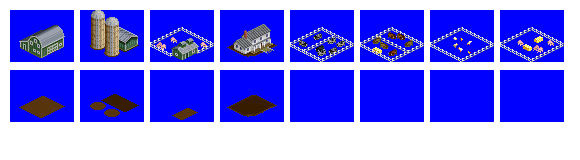
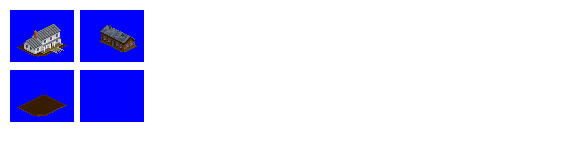
Change: add hunting camp to Arctic Basic; start refactoring paper mill to new sprites and spritelayout

diff --git a/src/industries/paper_mill.py b/src/industries/paper_mill.py
@@ -11,19 +11,25 @@ industry = IndustrySecondary(id='paper_mill',
                     processed_cargos_and_output_ratios=[('CLAY', 2), ('WOOD', 4), ('RFPR', 2)],
                     combined_cargos_boost_prod=True,
                     prod_cargo_types=['GOOD', 'MNSP'],
+                    layouts='AUTO',
                     prob_in_game='3',
                     prob_random='5',
+                    prod_multiplier='[0, 0]',
+                    substitute='14',
+                    new_ind_msg='TTD_STR_NEWS_INDUSTRY_CONSTRUCTION',
+                    map_colour='184',
+                    prod_decrease_msg='TTD_STR_NEWS_INDUSTRY_PRODUCTION_DECREASE_GENERAL',
+                    min_cargo_distr='5',
+                    spec_flags='0',
                     location_checks=IndustryLocationChecks(incompatible={'paper_mill': 56,
                                                                          'forest': 16,
                                                                          'clay_pit': 16}),
-                    substitute='14',
-                    map_colour='184',
+                    remove_cost_multiplier='0',
                     fund_cost_multiplier='120',
                     nearby_station_name='string(STR_STATION, string(STR_TOWN), string(STR_STATION_MILL))',
                     name='TTD_STR_INDUSTRY_NAME_PAPER_MILL',
                     override='14',
-                    extra_text_industry='STR_EXTRA_PAPER_MILL',
-                    template="refactor_paper_mill.pypnml" )
+                    extra_text_industry='STR_EXTRA_PAPER_MILL')
 
 industry.economy_variations['FIRS'].enabled = True
 industry.economy_variations['BASIC_ARCTIC'].enabled = True
@@ -32,3 +38,151 @@ industry.economy_variations['BASIC_ARCTIC'].processed_cargos_and_output_ratios =
 
 # industry uses layouts and sprites from default game, no custom layouts etc
 
+industry.add_tile(id='paper_mill_tile_1',
+                  location_checks=TileLocationChecks(require_effectively_flat=True,
+                                                     disallow_industry_adjacent=True))
+
+spriteset_ground = industry.add_spriteset(
+    id = 'paper_mill_spriteset_ground',
+    type = 'concrete'
+)
+spriteset_ground_overlay = industry.add_spriteset(
+    id = 'paper_mill_spriteset_ground_overlay',
+    type = 'empty'
+)
+spriteset_1 = industry.add_spriteset(
+    id = 'paper_mill_spriteset_1',
+    sprites = [(10, 10, 64, 62, -31, -31)],
+    zextent = 32
+)
+spriteset_2 = industry.add_spriteset(
+    id = 'paper_mill_spriteset_2',
+    sprites = [(80, 10, 64, 62, -31, -31)],
+    zextent = 32
+)
+spriteset_3 = industry.add_spriteset(
+    id = 'paper_mill_spriteset_3',
+    sprites = [(150, 10, 64, 55, -31, -24)],
+    zextent = 32
+)
+spriteset_4 = industry.add_spriteset(
+    id = 'paper_mill_spriteset_4',
+    sprites = [(220, 10, 64, 55, -31, -24)],
+    zextent = 32
+)
+spriteset_5 = industry.add_spriteset(
+    id = 'paper_mill_spriteset_5',
+    sprites = [(290, 10, 64, 55, -31, -24)],
+    zextent = 32
+)
+spriteset_6 = industry.add_spriteset(
+    id = 'paper_mill_spriteset_6',
+    sprites = [(360, 10, 64, 87, -31, -56)],
+    zextent = 52
+)
+spriteset_7 = industry.add_spriteset(
+    id = 'paper_mill_spriteset_7',
+    sprites = [(430, 10, 64, 87, -31, -56)],
+    zextent = 52
+)
+spriteset_8 = industry.add_spriteset(
+    id = 'paper_mill_spriteset_8',
+    sprites = [(500, 10, 64, 87, -31, -56)],
+    zextent = 52
+)
+spriteset_9 = industry.add_spriteset(
+    id = 'paper_mill_spriteset_9',
+    sprites = [(570, 10, 64, 55, -31, -24)],
+    zextent = 32
+)
+
+industry.add_spritelayout(
+    id = 'paper_mill_spritelayout_1',
+    ground_sprite = spriteset_ground,
+    ground_overlay = spriteset_ground_overlay,
+    building_sprites = [spriteset_1],
+    fences = ['nw','ne','se','sw']
+)
+industry.add_spritelayout(
+    id = 'paper_mill_spritelayout_2',
+    ground_sprite = spriteset_ground,
+    ground_overlay = spriteset_ground_overlay,
+    building_sprites = [spriteset_2],
+    fences = ['nw','ne','se','sw']
+)
+industry.add_spritelayout(
+    id = 'paper_mill_spritelayout_3',
+    ground_sprite = spriteset_ground,
+    ground_overlay = spriteset_ground_overlay,
+    building_sprites = [spriteset_3],
+    fences = ['nw','ne','se','sw']
+)
+industry.add_spritelayout(
+    id = 'paper_mill_spritelayout_4',
+    ground_sprite = spriteset_ground,
+    ground_overlay = spriteset_ground_overlay,
+    building_sprites = [spriteset_4],
+    fences = ['nw','ne','se','sw']
+)
+industry.add_spritelayout(
+    id = 'paper_mill_spritelayout_5',
+    ground_sprite = spriteset_ground,
+    ground_overlay = spriteset_ground_overlay,
+    building_sprites = [spriteset_5],
+    fences = ['nw','ne','se','sw']
+)
+industry.add_spritelayout(
+    id = 'paper_mill_spritelayout_6',
+    ground_sprite = spriteset_ground,
+    ground_overlay = spriteset_ground_overlay,
+    building_sprites = [spriteset_6],
+    fences = ['nw','ne','se','sw']
+)
+industry.add_spritelayout(
+    id = 'paper_mill_spritelayout_7',
+    ground_sprite = spriteset_ground,
+    ground_overlay = spriteset_ground_overlay,
+    building_sprites = [spriteset_7],
+    fences = ['nw','ne','se','sw']
+)
+industry.add_spritelayout(
+    id = 'paper_mill_spritelayout_8',
+    ground_sprite = spriteset_ground,
+    ground_overlay = spriteset_ground_overlay,
+    building_sprites = [spriteset_8],
+    fences = ['nw','ne','se','sw']
+)
+industry.add_spritelayout(
+    id = 'paper_mill_spritelayout_9',
+    ground_sprite = spriteset_ground,
+    ground_overlay = spriteset_ground_overlay,
+    building_sprites = [spriteset_9],
+    fences = ['nw','ne','se','sw']
+)
+industry.add_spritelayout(
+    id = 'paper_mill_spritelayout_10',
+    ground_sprite = spriteset_ground,
+    ground_overlay = spriteset_ground_overlay,
+    building_sprites = [],
+    fences = ['nw','ne','se','sw']
+)
+
+industry.add_industry_layout(
+    id = 'paper_mill_industry_layout_1',
+    layout = [(0, 0, 'paper_mill_tile_1', 'paper_mill_spritelayout_2'),
+              (0, 1, 'paper_mill_tile_1', 'paper_mill_spritelayout_1'),
+              (0, 2, 'paper_mill_tile_1', 'paper_mill_spritelayout_10'),
+              (1, 0, 'paper_mill_tile_1', 'paper_mill_spritelayout_2'),
+              (1, 1, 'paper_mill_tile_1', 'paper_mill_spritelayout_1'),
+              (1, 2, 'paper_mill_tile_1', 'paper_mill_spritelayout_10'),
+              (2, 0, 'paper_mill_tile_1', 'paper_mill_spritelayout_10'),
+              (2, 1, 'paper_mill_tile_1', 'paper_mill_spritelayout_7'),
+              (2, 2, 'paper_mill_tile_1', 'paper_mill_spritelayout_9'),
+              (3, 0, 'paper_mill_tile_1', 'paper_mill_spritelayout_8'),
+              (3, 1, 'paper_mill_tile_1', 'paper_mill_spritelayout_6'),
+              (3, 2, 'paper_mill_tile_1', 'paper_mill_spritelayout_10'),
+              (4, 0, 'paper_mill_tile_1', 'paper_mill_spritelayout_5'),
+              (4, 1, 'paper_mill_tile_1', 'paper_mill_spritelayout_4'),
+              (4, 2, 'paper_mill_tile_1', 'paper_mill_spritelayout_3')
+    ]
+)

diff --git a/src/industries/hunting_camp.py b/src/industries/hunting_camp.py
@@ -68,46 +68,6 @@ spriteset_2_ground = industry.add_spriteset(
     sprites = [(80, 70, 64, 52, -31, -21)],
     zextent = 32
 )
-spriteset_3 = industry.add_spriteset(
-    id = 'hunting_camp_spriteset_3',
-    sprites = [(150, 10, 64, 52, -31, -21)],
-    zextent = 32
-)
-spriteset_3_ground = industry.add_spriteset(
-    id = 'hunting_camp_spriteset_3_ground',
-    sprites = [(150, 70, 64, 52, -31, -21)],
-    zextent = 32
-)
-spriteset_4 = industry.add_spriteset(
-    id = 'hunting_camp_spriteset_4',
-    sprites = [(220, 10, 64, 52, -31, -21)],
-    zextent = 32
-)
-spriteset_4_ground = industry.add_spriteset(
-    id = 'hunting_camp_spriteset_4_ground',
-    sprites = [(220, 70, 64, 52, -31, -21)],
-    zextent = 32
-)
-spriteset_5 = industry.add_spriteset(
-    id = 'hunting_camp_spriteset_5',
-    sprites = [(290, 10, 64, 52, -31, -21)],
-    zextent = 32
-)
-spriteset_6 = industry.add_spriteset(
-    id = 'hunting_camp_spriteset_6',
-    sprites = [(360, 10, 64, 52, -31, -21)],
-    zextent = 32
-)
-spriteset_7 = industry.add_spriteset(
-    id = 'hunting_camp_spriteset_7',
-    sprites = [(430, 10, 64, 52, -31, -21)],
-    zextent = 32
-)
-spriteset_8 = industry.add_spriteset(
-    id = 'hunting_camp_spriteset_8',
-    sprites = [(500, 10, 64, 52, -31, -21)],
-    zextent = 32
-)
 
 industry.add_spritelayout(
     id = 'hunting_camp_spritelayout_1',
@@ -126,78 +86,32 @@ industry.add_spritelayout(
 industry.add_spritelayout(
     id = 'hunting_camp_spritelayout_3',
     ground_sprite = sprite_ground_mud,
-    ground_overlay = spriteset_3_ground,
-    building_sprites = [spriteset_3],
-)
-industry.add_spritelayout(
-    id = 'hunting_camp_spritelayout_4',
-    ground_sprite = spriteset_ground,
-    ground_overlay = spriteset_4_ground,
-    building_sprites = [spriteset_4],
-    terrain_aware_ground = True
-)
-industry.add_spritelayout(
-    id = 'hunting_camp_spritelayout_5',
-    ground_sprite = spriteset_ground,
-    ground_overlay = spriteset_ground_overlay,
-    building_sprites = [spriteset_5],
-    terrain_aware_ground = True
-)
-industry.add_spritelayout(
-    id = 'hunting_camp_spritelayout_6',
-    ground_sprite = spriteset_ground,
-    ground_overlay = spriteset_ground_overlay,
-    building_sprites = [spriteset_6],
-    terrain_aware_ground = True
-)
-industry.add_spritelayout(
-    id = 'hunting_camp_spritelayout_7',
-    ground_sprite = spriteset_ground,
-    ground_overlay = spriteset_ground_overlay,
-    building_sprites = [spriteset_7],
-    terrain_aware_ground = True
-)
-industry.add_spritelayout(
-    id = 'hunting_camp_spritelayout_8',
-    ground_sprite = spriteset_ground,
-    ground_overlay = spriteset_ground_overlay,
-    building_sprites = [spriteset_8],
+    ground_overlay = sprite_ground_mud,
+    building_sprites = [],
     terrain_aware_ground = True
 )
 
 industry.add_industry_layout(
     id = 'hunting_camp_industry_layout_1',
-    layout = [(0, 2, 'hunting_camp_tile_1', 'hunting_camp_spritelayout_8'),
-              (0, 3, 'hunting_camp_tile_1', 'hunting_camp_spritelayout_3'),
+    layout = [(0, 1, 'hunting_camp_tile_1', 'hunting_camp_spritelayout_3'),
+              (0, 2, 'hunting_camp_tile_1', 'hunting_camp_spritelayout_1'),
               (1, 0, 'hunting_camp_tile_1', 'hunting_camp_spritelayout_2'),
-              (2, 0, 'hunting_camp_tile_1', 'hunting_camp_spritelayout_1'),
-              (2, 2, 'hunting_camp_tile_1', 'hunting_camp_spritelayout_5'),
-              (2, 3, 'hunting_camp_tile_1', 'hunting_camp_spritelayout_7'),
-              (3, 2, 'hunting_camp_tile_1', 'hunting_camp_spritelayout_6'),
-              (3, 3, 'hunting_camp_tile_1', 'hunting_camp_spritelayout_4'),
+              (1, 2, 'hunting_camp_tile_1', 'hunting_camp_spritelayout_2'),
     ]
 )
 industry.add_industry_layout(
     id = 'hunting_camp_industry_layout_2',
-    layout = [(0, 0, 'hunting_camp_tile_1', 'hunting_camp_spritelayout_4'),
-              (0, 2, 'hunting_camp_tile_1', 'hunting_camp_spritelayout_7'),
-              (0, 3, 'hunting_camp_tile_1', 'hunting_camp_spritelayout_6'),
-              (1, 0, 'hunting_camp_tile_1', 'hunting_camp_spritelayout_5'),
-              (1, 3, 'hunting_camp_tile_1', 'hunting_camp_spritelayout_1'),
-              (2, 0, 'hunting_camp_tile_1', 'hunting_camp_spritelayout_8'),
-              (2, 1, 'hunting_camp_tile_1', 'hunting_camp_spritelayout_3'),
-              (2, 2, 'hunting_camp_tile_1', 'hunting_camp_spritelayout_2'),
+    layout = [(0, 0, 'hunting_camp_tile_1', 'hunting_camp_spritelayout_2'),
+              (0, 1, 'hunting_camp_tile_1', 'hunting_camp_spritelayout_2'),
+              (0, 2, 'hunting_camp_tile_1', 'hunting_camp_spritelayout_1'),
+              (1, 0, 'hunting_camp_tile_1', 'hunting_camp_spritelayout_3'),
     ]
 )
 industry.add_industry_layout(
     id = 'hunting_camp_industry_layout_3',
-    layout = [(0, 0, 'hunting_camp_tile_1', 'hunting_camp_spritelayout_8'),
+    layout = [(0, 0, 'hunting_camp_tile_1', 'hunting_camp_spritelayout_2'),
               (0, 1, 'hunting_camp_tile_1', 'hunting_camp_spritelayout_1'),
-              (0, 2, 'hunting_camp_tile_1', 'hunting_camp_spritelayout_5'),
               (1, 0, 'hunting_camp_tile_1', 'hunting_camp_spritelayout_2'),
               (1, 2, 'hunting_camp_tile_1', 'hunting_camp_spritelayout_3'),
-              (2, 0, 'hunting_camp_tile_1', 'hunting_camp_spritelayout_7'),
-              (3, 0, 'hunting_camp_tile_1', 'hunting_camp_spritelayout_4'),
-              (3, 2, 'hunting_camp_tile_1', 'hunting_camp_spritelayout_6'),
     ]
 )

diff --git a/src/industries/fertiliser_plant.py b/src/industries/fertiliser_plant.py
@@ -9,6 +9,7 @@ from industry import IndustrySecondary, TileLocationChecks, IndustryLocationChec
 
 industry = IndustrySecondary(id='fertiliser_plant',
                     processed_cargos_and_output_ratios=[('RFPR', 8)],
+                    combined_cargos_boost_prod=True,
                     prod_increase_msg='TTD_STR_NEWS_INDUSTRY_PRODUCTION_INCREASE_GENERAL',
                     prod_cargo_types=['FMSP'],
                     layouts='AUTO',
@@ -30,7 +31,7 @@ industry = IndustrySecondary(id='fertiliser_plant',
                     closure_msg='TTD_STR_NEWS_INDUSTRY_CLOSURE_SUPPLY_PROBLEMS',
                     extra_text_industry='STR_EXTRA_FERTILIZER_PLANT',
                     intro_year=1890,
-                    graphics_change_dates = [1952] )
+                    graphics_change_dates=[1952])
 
 industry.economy_variations['FIRS'].enabled = True
 industry.economy_variations['BASIC_ARCTIC'].enabled = True

diff --git a/src/industry.py b/src/industry.py
@@ -862,10 +862,6 @@ class IndustrySecondary(Industry):
         self.combined_cargos_boost_prod = kwargs.get('combined_cargos_boost_prod', False)
         self.mnsp_boosts_production_jank = kwargs.get('mnsp_boosts_production_jank', False) # jank jank jank
 
-    def get_num_output_cargos(self):
-        # !! no economy support currently, CPP templating doesn't handle it, but will be needed after snakebite
-        return len(self.get_property('prod_cargo_types', None))
-
     def get_prod_ratio(self, cargo_num):
         # there is no support for varying prod_ratio by economy, and I don't intend to provide any
         # it would require the CPP templating for secondary production to be rewritten, and that is not necessary currently

diff --git a/src/global_constants.py b/src/global_constants.py
@@ -90,7 +90,8 @@ industry_numeric_ids = dict(coal_mine = 0,
 
 # Definition of industry tile numeric IDs
 # tiles 0-153 currently vacant
-tile_numeric_ids = dict(hunting_camp_tile_1 = 144,
+tile_numeric_ids = dict(paper_mill_tile_1 = 143,
+                        hunting_camp_tile_1 = 144,
                         shipyard_tile_1 = 145,
                         shipyard_tile_2 = 146,
                         ore_terminal_tile_1 = 147,
